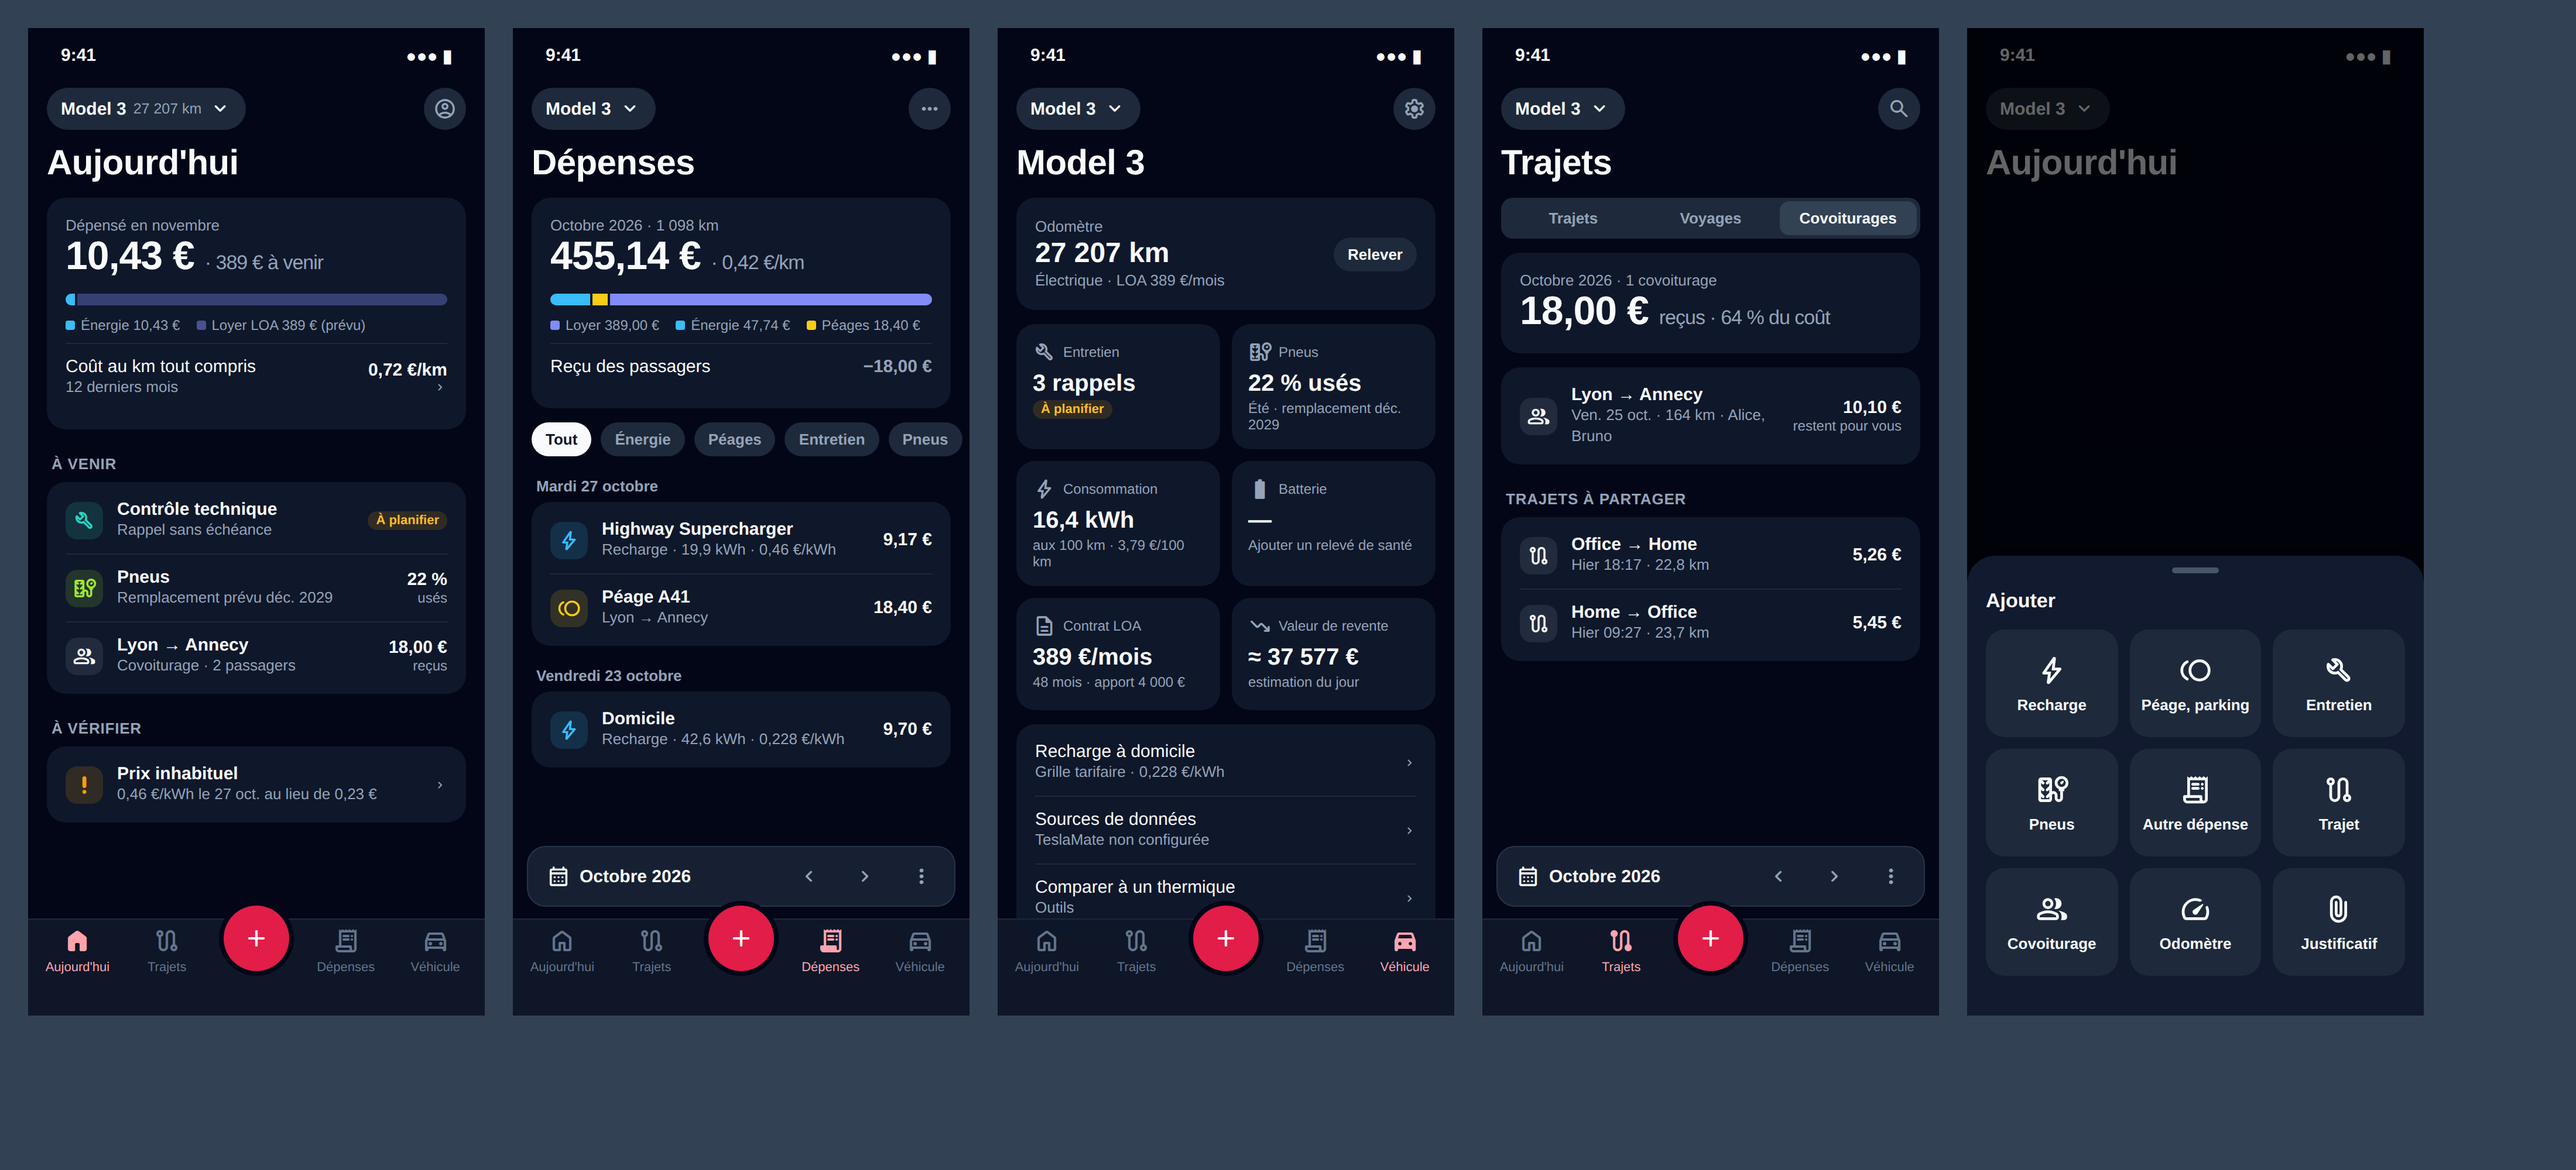
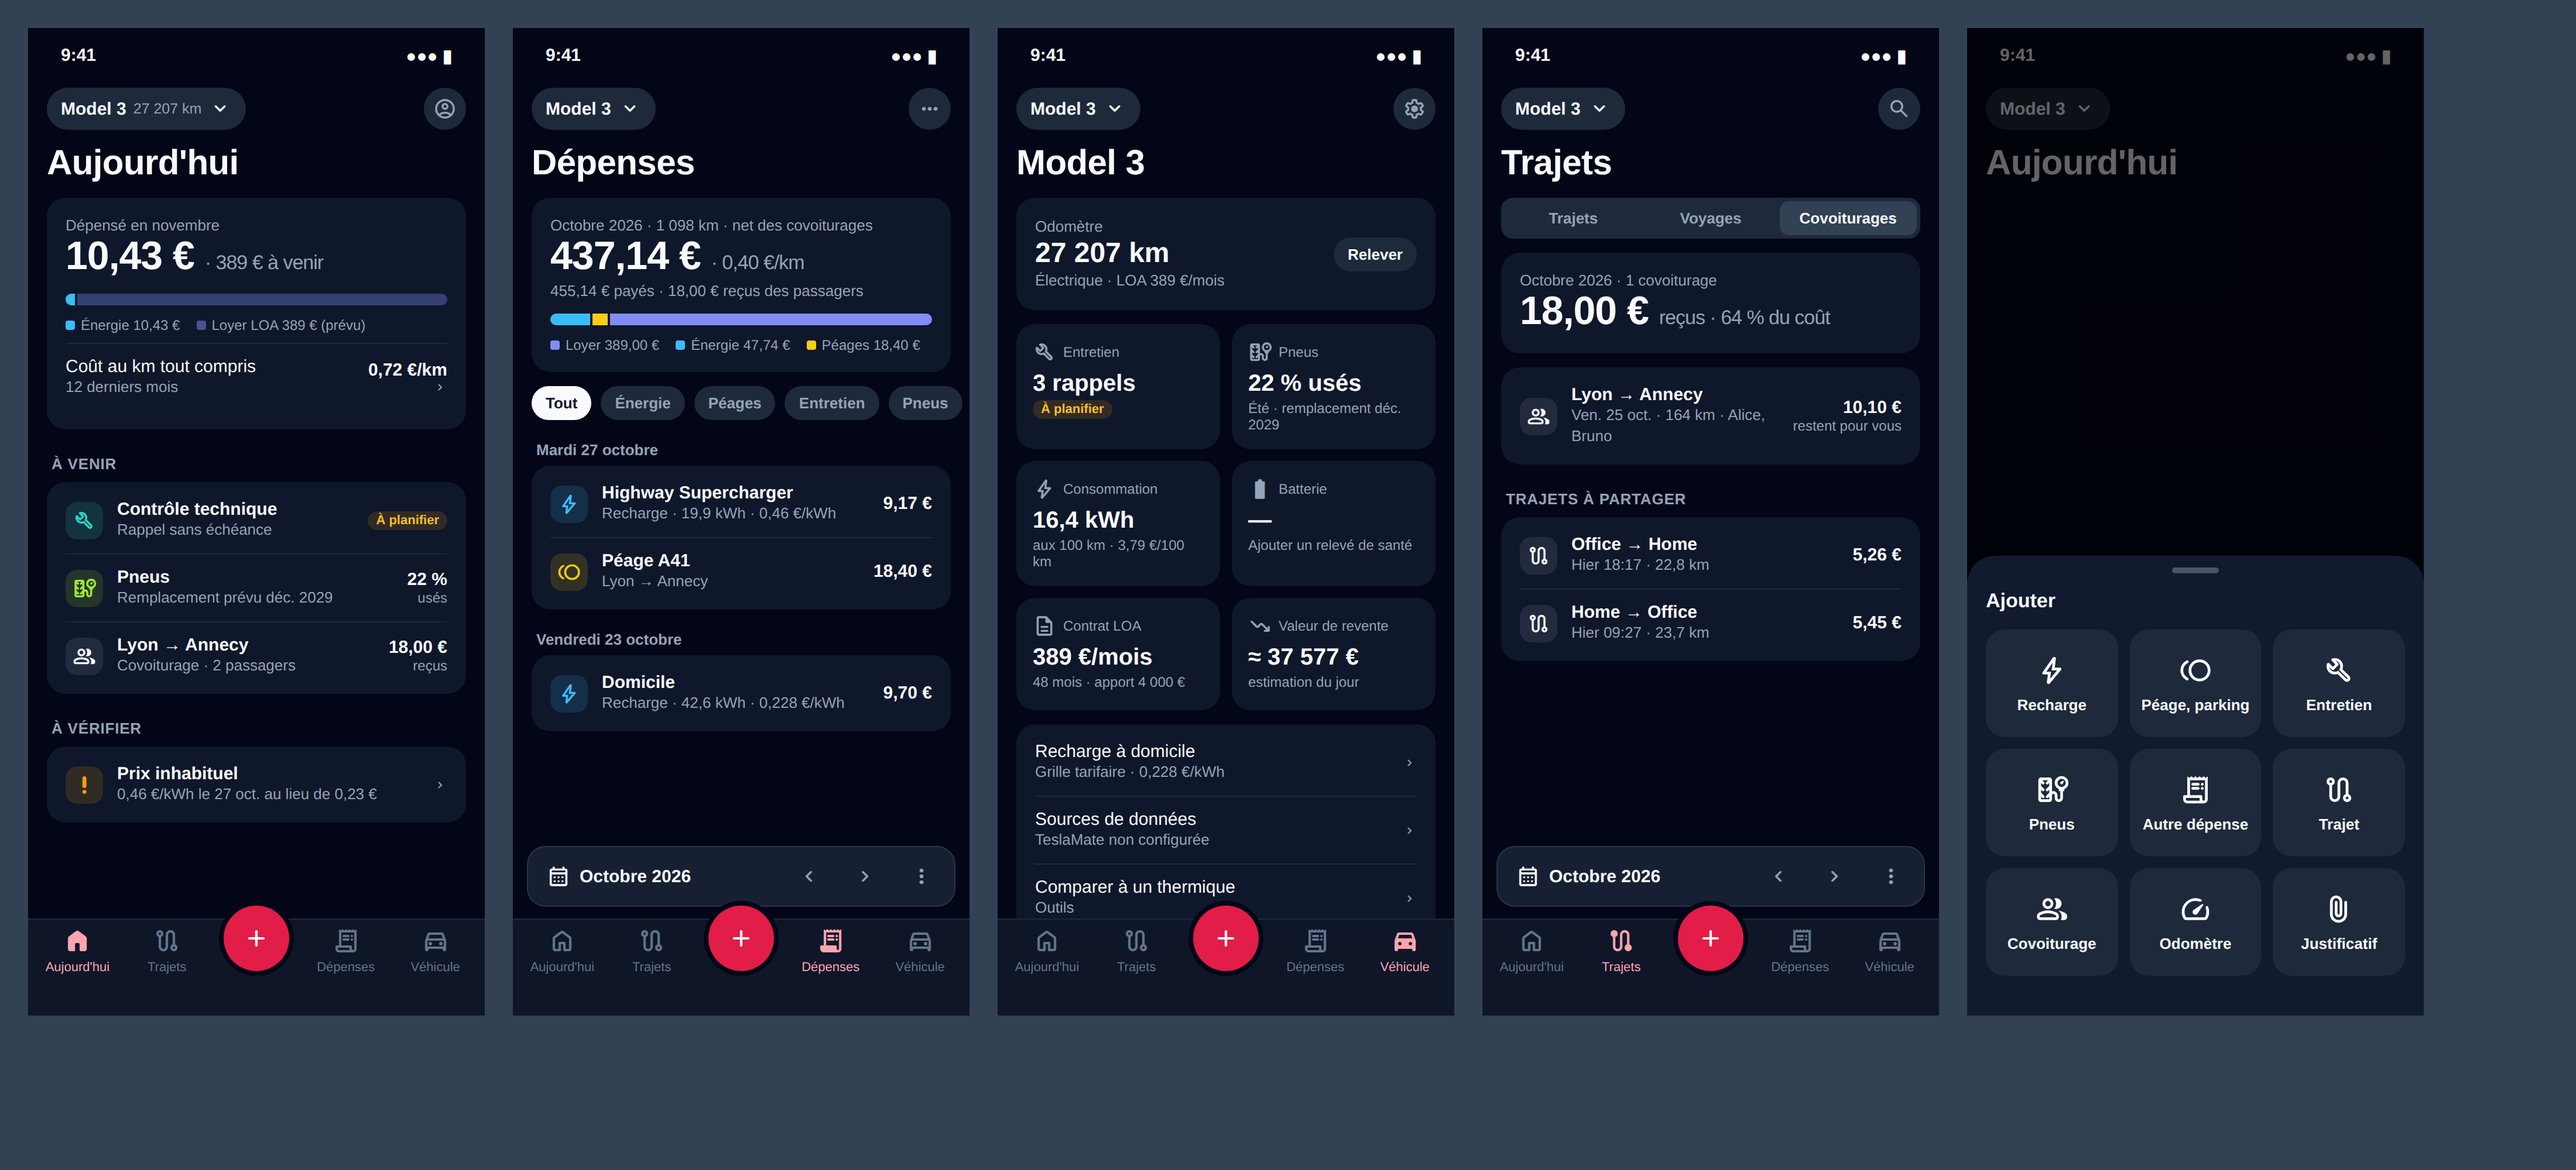
Show the net cost first in the expenses mockup

diff --git a/ia-structure/maquettes.html b/ia-structure/maquettes.html
@@ -46,10 +46,10 @@ h1{font-size:30px;font-weight:700;padding:4px 16px 12px;letter-spacing:-.3px}
 <div class="ph" id="m2"><div class="sb"><span>9:41</span><span>●●● ▮</span></div>
 <div class="bar"><div class="veh">Model 3 <span class="ms">expand_more</span></div><div class="icon"><span class="ms">more_horiz</span></div></div>
 <h1>Dépenses</h1>
-<div class="c"><div class="lbl">Octobre 2026 · 1 098 km</div><div class="big">455,14 € <small>· 0,42 €/km</small></div>
+<div class="c"><div class="lbl">Octobre 2026 · 1 098 km · net des covoiturages</div><div class="big">437,14 € <small>· 0,40 €/km</small></div><div class="lbl" style="margin-top:2px">455,14 € payés · 18,00 € reçus des passagers</div>
 <div class="stack"><div style="flex:47.74;background:var(--energy)"></div><div style="flex:18.4;background:var(--tolls)"></div><div style="flex:389;background:var(--fin)"></div></div>
 <div class="legend"><span><i style="background:var(--fin)"></i>Loyer 389,00 €</span><span><i style="background:var(--energy)"></i>Énergie 47,74 €</span><span><i style="background:var(--tolls)"></i>Péages 18,40 €</span></div>
-<div class="row" style="margin-top:8px;border-top:1px solid var(--line)"><div class="tt"><b style="font-weight:500">Reçu des passagers</b></div><div class="amt" style="color:var(--t2)">−18,00 €</div></div></div>
+</div>
 <div class="chips"><span class="chip on">Tout</span><span class="chip">Énergie</span><span class="chip">Péages</span><span class="chip">Entretien</span><span class="chip">Pneus</span></div>
 <div class="dh">Mardi 27 octobre</div>
 <div class="c" style="padding:4px 16px"><div class="row"><div class="dot" style="background:rgba(56,189,248,.15);color:var(--energy)"><span class="ms">bolt</span></div><div class="tt"><b>Highway Supercharger</b><span>Recharge · 19,9 kWh · 0,46 €/kWh</span></div><div class="amt">9,17 €</div></div>
